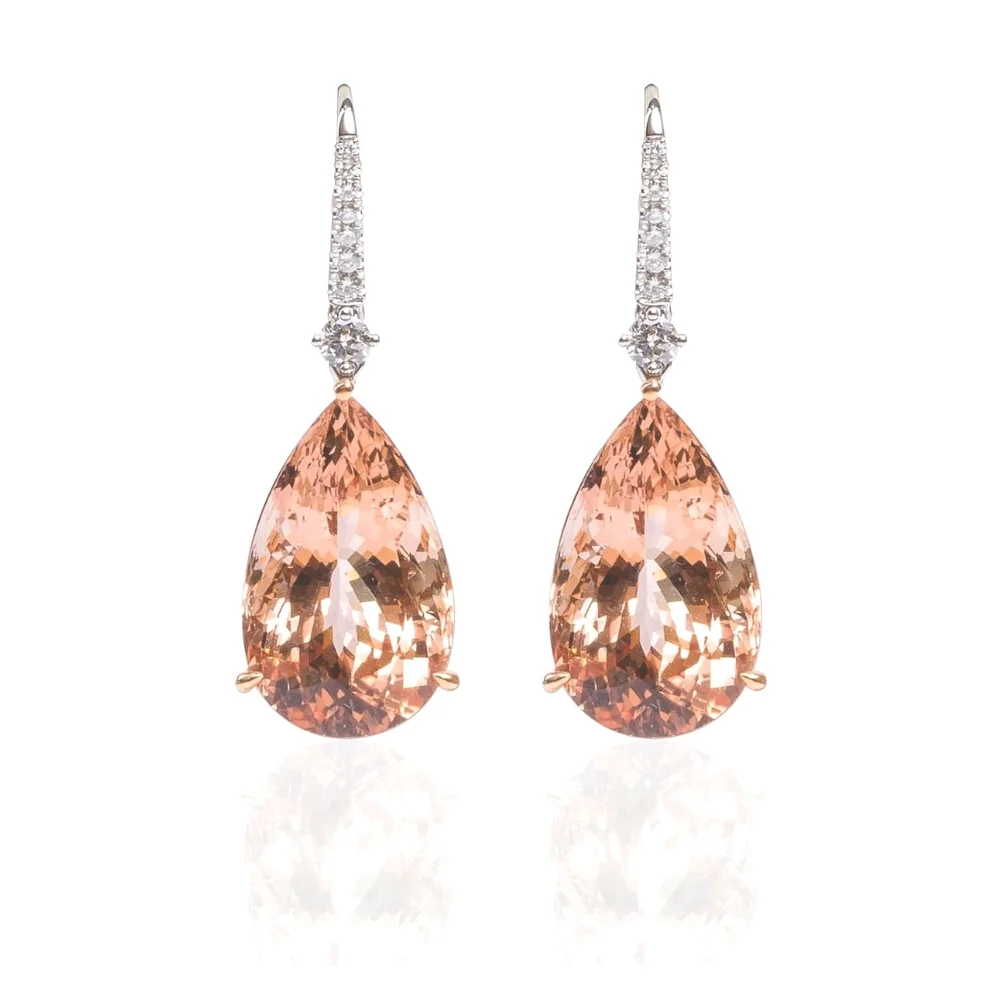
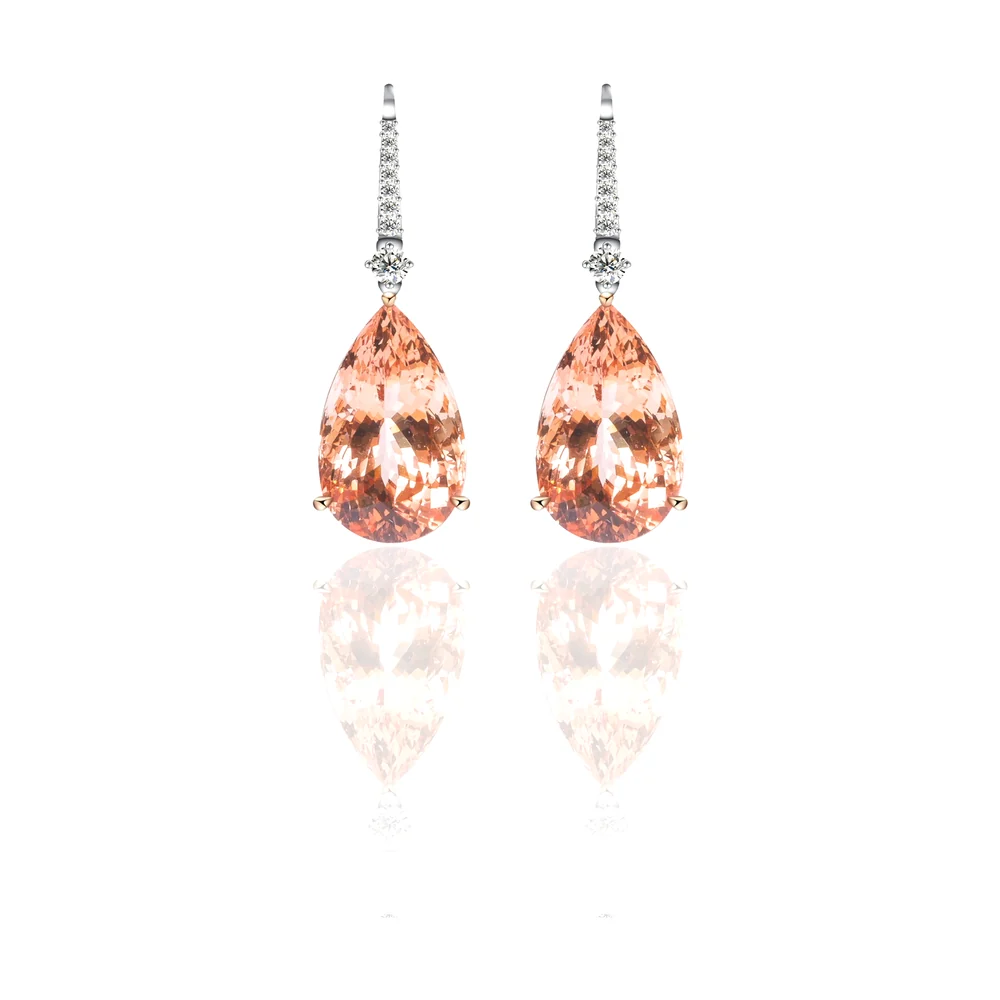
Add new photos from Michel's emails 9-14
- Two new pieces: Oval Emerald Halo Ring and Art Deco Sapphire Ring
  (56 in total)
- Clean studio shot of the 70ct morganite earrings replaces the
  cropped Instagram screenshot
- "Made to be worn" row on the collections page (sapphire ring,
  morganite pendant, pavé diamond ring; no faces); its tiles filter
  the grid and scroll back to it

Claude-Session: https://claude.ai/code/session_01YErHAkG1NViqXgVA9nc83o

Changed region(s): [[0.217, 0.093, 0.465, 0.775], [0.527, 0.093, 0.775, 0.775]]

diff --git a/collections.html b/collections.html
@@ -172,6 +172,10 @@
         <figcaption><span class="piece__name">Emerald-Cut Emerald Ring</span><span class="piece__desc">Emerald in a diamond halo with yellow-gold accents</span></figcaption>
       </figure>
       <figure class="piece reveal" data-cat="rings" data-label="Rings">
+        <div class="piece__img piece__img--studio"><img src="assets/img/oval-emerald-ring.webp" alt="Oval Emerald Halo Ring by Germani" loading="lazy" decoding="async"></div>
+        <figcaption><span class="piece__name">Oval Emerald Halo Ring</span><span class="piece__desc">Oval emerald in a diamond halo on a rose-gold band</span></figcaption>
+      </figure>
+      <figure class="piece reveal" data-cat="rings" data-label="Rings">
         <div class="piece__img"><img src="assets/img/emerald-cocktail-ring.webp" alt="Emerald Cocktail Ring by Germani" loading="lazy" decoding="async"></div>
         <figcaption><span class="piece__name">Emerald Cocktail Ring</span><span class="piece__desc">Large step-cut emerald within a diamond halo</span></figcaption>
       </figure>
@@ -276,6 +280,10 @@
         <figcaption><span class="piece__name">Emerald Line Bracelet</span><span class="piece__desc">Square emeralds in diamond frames</span></figcaption>
       </figure>
       <figure class="piece reveal" data-cat="gentlemen rings" data-label="Gentlemen">
+        <div class="piece__img"><img src="assets/img/art-deco-sapphire-ring.webp" alt="Art Deco Sapphire Ring by Germani" loading="lazy" decoding="async"></div>
+        <figcaption><span class="piece__name">Art Deco Sapphire Ring</span><span class="piece__desc">Baguette diamonds framed in calibré sapphires</span></figcaption>
+      </figure>
+      <figure class="piece reveal" data-cat="gentlemen rings" data-label="Gentlemen">
         <div class="piece__img"><img src="assets/img/emerald-signet-ring.webp" alt="Emerald Gentleman’s Ring by Germani" loading="lazy" decoding="async"></div>
         <figcaption><span class="piece__name">Emerald Gentleman’s Ring</span><span class="piece__desc">Step-cut emerald with baguette and pavé diamonds</span></figcaption>
       </figure>
@@ -283,6 +291,15 @@
         <div class="piece__img"><img src="assets/img/diamond-gents-ring.webp" alt="Diamond Gentleman’s Ring by Germani" loading="lazy" decoding="async"></div>
         <figcaption><span class="piece__name">Diamond Gentleman’s Ring</span><span class="piece__desc">Old-European-style diamond in a pavé-set mount</span></figcaption>
       </figure>
+    </div>
+    <div class="section-head reveal" style="margin-top:clamp(72px,9vw,120px)">
+      <span class="eyebrow">Made to be worn</span>
+      <h2>Germani, worn</h2>
+    </div>
+    <div class="tiles">
+      <a class="tile reveal" href="#rings"><div class="tile__img"><img src="assets/img/sapphire-ring-worn.webp" alt="Oval sapphire and diamond ring, worn" loading="lazy" decoding="async"></div><span class="tile__label">Oval Sapphire Halo Ring</span></a>
+      <a class="tile reveal" href="#morganite"><div class="tile__img"><img src="assets/img/morganite-pendant-worn.webp" alt="Morganite pendant on a diamond station chain, worn" loading="lazy" decoding="async"></div><span class="tile__label">Morganite Pendant</span></a>
+      <a class="tile reveal" href="#rings"><div class="tile__img"><img src="assets/img/diamond-ring-worn.webp" alt="Pavé diamond ring and diamond necklace, worn" loading="lazy" decoding="async"></div><span class="tile__label">Pavé Diamond Ring</span></a>
     </div>
     <div class="collection-note reveal">
       <p class="lead">Looking for something you don&rsquo;t see here?</p>

diff --git a/assets/js/site.js b/assets/js/site.js
@@ -61,9 +61,17 @@
         history.replaceState(null, "", b.dataset.filter === "all" ? location.pathname : "#" + b.dataset.filter);
       });
     });
+    var isFilter = function (h) { return Array.prototype.some.call(filterBtns, function (b) { return b.dataset.filter === h; }); };
     var initial = location.hash.replace("#", "");
-    var known = Array.prototype.some.call(filterBtns, function (b) { return b.dataset.filter === initial; });
-    applyFilter(known ? initial : "all");
+    applyFilter(isFilter(initial) ? initial : "all");
+    /* in-page links such as #rings filter the grid and scroll back to it */
+    window.addEventListener("hashchange", function () {
+      var h = location.hash.replace("#", "");
+      if (!isFilter(h)) return;
+      applyFilter(h);
+      var f = document.querySelector(".filters"), hd = document.querySelector(".site-header");
+      window.scrollTo({ top: f.getBoundingClientRect().top + window.scrollY - (hd ? hd.offsetHeight : 0) - 16, behavior: "smooth" });
+    });
   }
 
   /* Collections: lightbox */

diff --git a/README.md b/README.md
@@ -16,7 +16,7 @@ Website for **Germani Jewellery Academy** (official business name), Sydney: Mich
 | File | Content |
 |---|---|
 | `index.html` | Home: hero, collections, black opal feature, campaign, founder, bespoke, visit |
-| `collections.html` | Filterable gallery of 54 pieces with a lightbox and "Enquire about this piece" link |
+| `collections.html` | Filterable gallery of 56 pieces, plus a "Made to be worn" row with a lightbox and "Enquire about this piece" link |
 | `house.html` | Michel Germani's story and the house values |
 | `bespoke.html` | Engagement rings and the bespoke process |
 | `academy.html` | Germani Jewellery Academy: foundation, craftsmanship, what it covers, contact |
